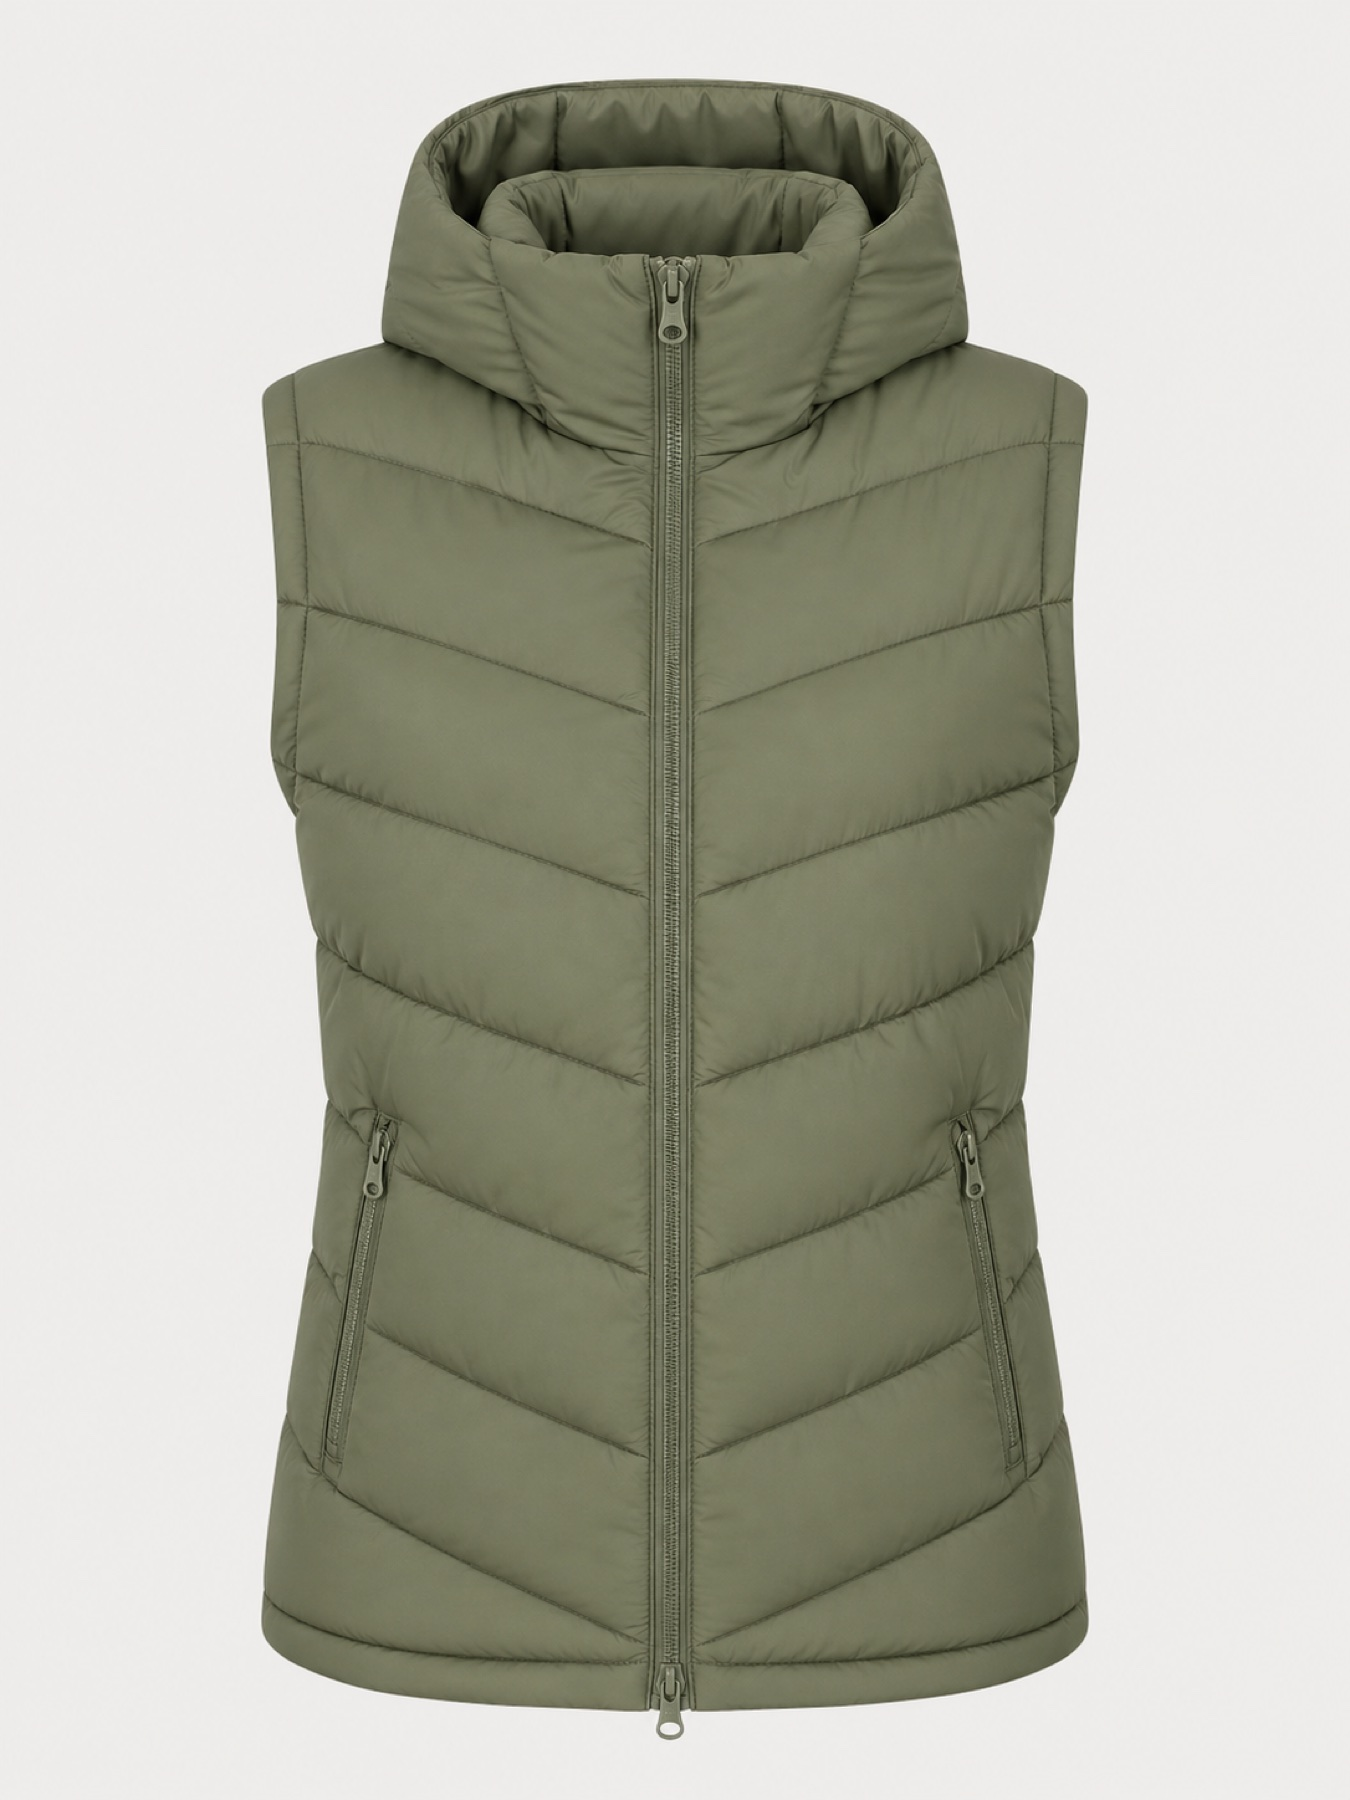
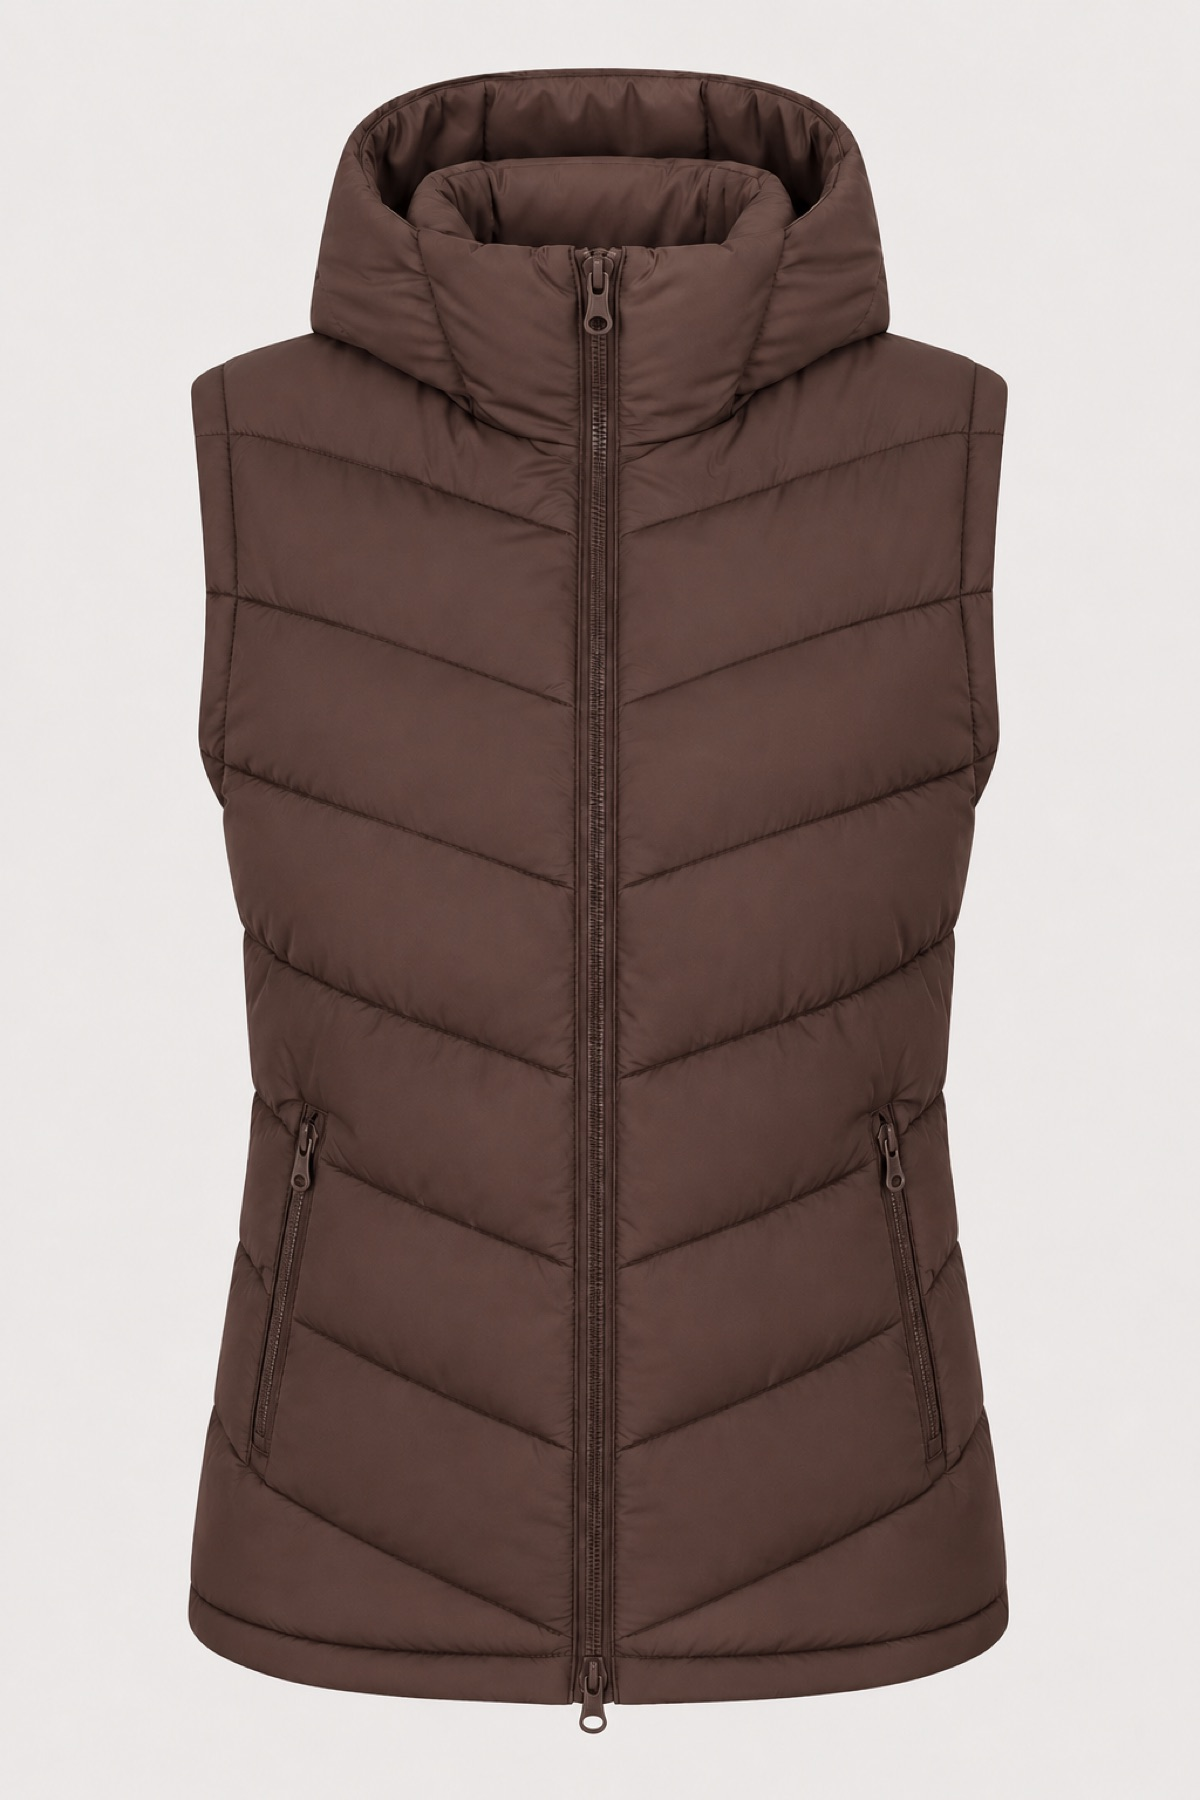
Reemplaza foto Chocolate de Lettie Vest

diff --git a/script.js b/script.js
@@ -1275,7 +1275,7 @@ Object.entries(winterImageAdditionsByProductId).forEach(([productId, photoNumber
   ])].sort((a, b) => a - b);
 });
 
-const IMAGE_ASSET_VERSION = "20260807-30";
+const IMAGE_ASSET_VERSION = "20260810-01";
 
 const PRODUCTION_2027_IMAGE_SOURCE_BY_PRODUCT_ID = {
   118: 48,  // Merano

diff --git a/index.html b/index.html
@@ -162,6 +162,6 @@
     <p>BYE BYE — BYE BYE</p>
   </footer>
 
-  <script src="script.js?v=20260810-03"></script>
+  <script src="script.js?v=20260810-04"></script>
 </body>
 </html>
